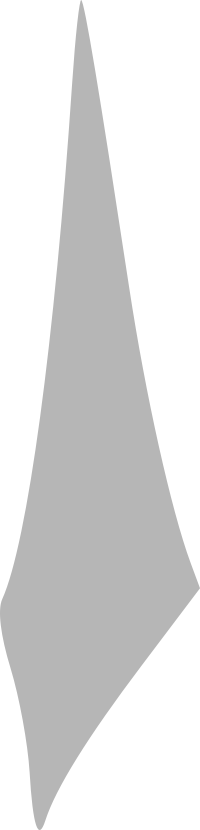
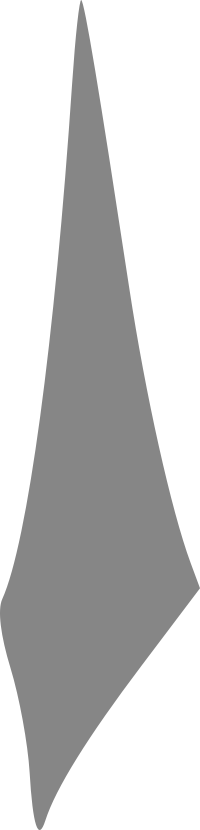
smoothed out animations and opacity of shards

diff --git a/src/three/Ducko.tsx b/src/three/Ducko.tsx
@@ -39,18 +39,23 @@ export const Ducko = memo(({ duckoConfig }: Props) => {
   const shardList = useMemo(
     () => [
       ...generateRandomSpriteElements(10, 1.5, textures, 5, 6),
-      ...generateRandomSpriteElements(20, 0.9, textures, 5, 7),
-      ...generateRandomSpriteElements(50, 0.5, textures, 6, 9),
-      ...generateRandomSpriteElements(50, 0.5, textures, 8, 10)
+      ...generateRandomSpriteElements(30, 0.9, textures, 5, 7),
+      ...generateRandomSpriteElements(30, 0.7, textures, 6, 9),
+      ...generateRandomSpriteElements(80, 0.5, textures, 9, 20)
     ],
     []
   )
 
   // animate ducko szenechange -> Smaller is slower
-  const lerpSpeedShow = 0.07
+  const lerpSpeedShow = 0.09
   const lerpSpeedHide = 0.1
-  const minSize = new Vector3(0.5, 0.1, 0.5)
+  const minSize = new Vector3(0.5, 0.3, 0.5)
   const fullSize = new Vector3(1, 1, 1)
+  const center = new Vector3(0, 0, 0)
+
+  const getOpacityFromDistanceToCenter = (positionObj: Vector3) => {
+    return 1 - positionObj.distanceTo(center) / 25
+  }
 
   const showShards = () => {
     shardRef.current.scale.lerpVectors(
@@ -143,19 +148,6 @@ const ImageElement = ({ texture, x, y, height, rotation }: ImageProps) => {
   )
 }
 
-const center = new Vector3(0, 0, 0)
-export const getOpacityFromDistanceToCenter = (positionObj: Vector3) => {
-  const min = 4.5
-  const max = 12
-
-  const distance = positionObj.distanceTo(center)
-  if (distance <= min) return 1
-  if (distance >= max) return 0
-
-  // Map distance between min and max to a value between 1 and 0
-  return (max - distance) / (max - min)
-}
-
 type SpriteProps = {
   texture: Texture
   position: Vector3
@@ -196,7 +188,7 @@ const generateRandomSpriteElements = (
     const randomPos = getRandomPositionInSphereWithXBias(
       innerRadius,
       outerRadius,
-      0.7
+      0.65
     )
     const randomTexture = textures[randomInt(0, textures.length)]
 

diff --git a/src/main.css b/src/main.css
@@ -6,10 +6,20 @@
   src: url(./assets/fonts/TheBattleCont.ttf) format("truetype");
 }
 
+:root {
+  font-family: Inter, system-ui, Avenir, Helvetica, Arial, sans-serif;
+  color-scheme: light dark;
+  display: flex;
+  justify-content: center;
+}
+
 body {
   width: 100%;
   margin: 0;
   padding: 0;
+  background-color: var(--accent-3);
+  color: var(--accent-0);
+
   #root {
     display: flex;
     justify-content: center;
@@ -18,14 +28,6 @@ body {
       width: 1200px;
     }
   }
-}
-
-:root {
-  font-family: Inter, system-ui, Avenir, Helvetica, Arial, sans-serif;
-  color-scheme: light dark;
-  color: var(--accent-0);
-  display: flex;
-  justify-content: center;
 }
 
 h1 {
@@ -57,6 +59,7 @@ button {
 .big-ducko-print {
   font-size: var(--font-size-3xl);
   text-shadow: -3px 4px 0px var(--accent-3);
+  font-weight: bold;
   font-family: "BattleContinues";
 }
 

diff --git a/src/page-config.ts b/src/page-config.ts
@@ -1,7 +1,7 @@
 import { config } from "@react-spring/three"
 import { DeepPartial, DuckoSzeneConfig } from "./types"
 
-export const springConfig = { config: config.gentle }
+export const springConfig = { config: config.slow }
 
 export const duckoSzenes: Record<string, DeepPartial<DuckoSzeneConfig>> = {
   "/": {
@@ -21,14 +21,17 @@ export const duckoSzenes: Record<string, DeepPartial<DuckoSzeneConfig>> = {
     }
   },
   "/about": {
+    ducko: {
+      shardsVisible: false
+    },
     camera: {
-      position: [-2, -1, 3],
+      position: [-2, 1, 3],
       lookAt: [0, 0, 0]
     }
   },
   "/duck": {
     camera: {
-      position: [0, 0, 8],
+      position: [0, 0, 12],
       lookAt: [0, 0, 0]
     }
   },

diff --git a/src/nav-bar/NavBarWrapper.tsx b/src/nav-bar/NavBarWrapper.tsx
@@ -2,6 +2,7 @@ import { useLocation } from "react-router-dom"
 import { useMediaQuery } from "../use-media-hook"
 import { NavBarDesktop } from "./NavBarDesktop"
 import { NavBarMobile } from "./NavBarMobile"
+import "./NavBarWrapper.css"
 
 export const NavBarWrapper = () => {
   const isMobile = useMediaQuery("(max-width: 700px)")

diff --git a/src/nav-bar/NavBarWrapper.css b/src/nav-bar/NavBarWrapper.css
@@ -1,0 +1,3 @@
+.navbar-wrapper a {
+  text-shadow: 1px 1px 3px var(--accent-3);
+}

diff --git a/TODO.md b/TODO.md
@@ -4,22 +4,12 @@
 - Cameramovement auch per Lerp umsetzen?
 - with zustand state auslesen (wie inf fiber doku)
 - Beleuchtung sichtbar machen
-- auf welcome: oben angry ducko, unten lets go, keine shards
-- auf page: shards fliegen von mitte in pos, drehen minimal
 - wenn play: shards pulsieren im beat (wenns geht, sogar in sync mit tatsäclichem audio)
-- auf vollbildseite: ducko in der mitte, shards fliegen
 - lookat auf maus?
-- anstatt fog lieber opacity basiert auf distance?: https://stackoverflow.com/questions/52425575/is-it-possible-to-let-fog-interact-with-the-materials-opacity
-  für alle animationen speing mit der selben confug nutzen
-- diese gute touchinteraktion lib von pmndrs für projects
-- rotation über useframe ausschalten, da Float das auch kann
-- die shards in sichtbarkeit animieren auch über springs?
-- in duckostate lookat und cameraposition integrieren: mit springValue dann transitions regeln
-- wenn nur duckopage, dann langsame kamerafahrt and ducko heran und um ducko herum
-- state aufbauen als record, der routenkeys beinhaltet
-- vollbildseiten mit semitransparentem hintergrund
-- farben css für links und so alles
 
+- diese gute touchinteraktion lib von pmndrs für projects
+- wenn nur duckopage, dann langsame kamerafahrt and ducko heran und um ducko herum?
+- farben css für links und so alles
 - kickimpat führt inputfunction, die entweder di shard hart auf 1.1 scaliert oder dieses doppellerp
 - in use frame dann der lerp zürck auf 1?
 
